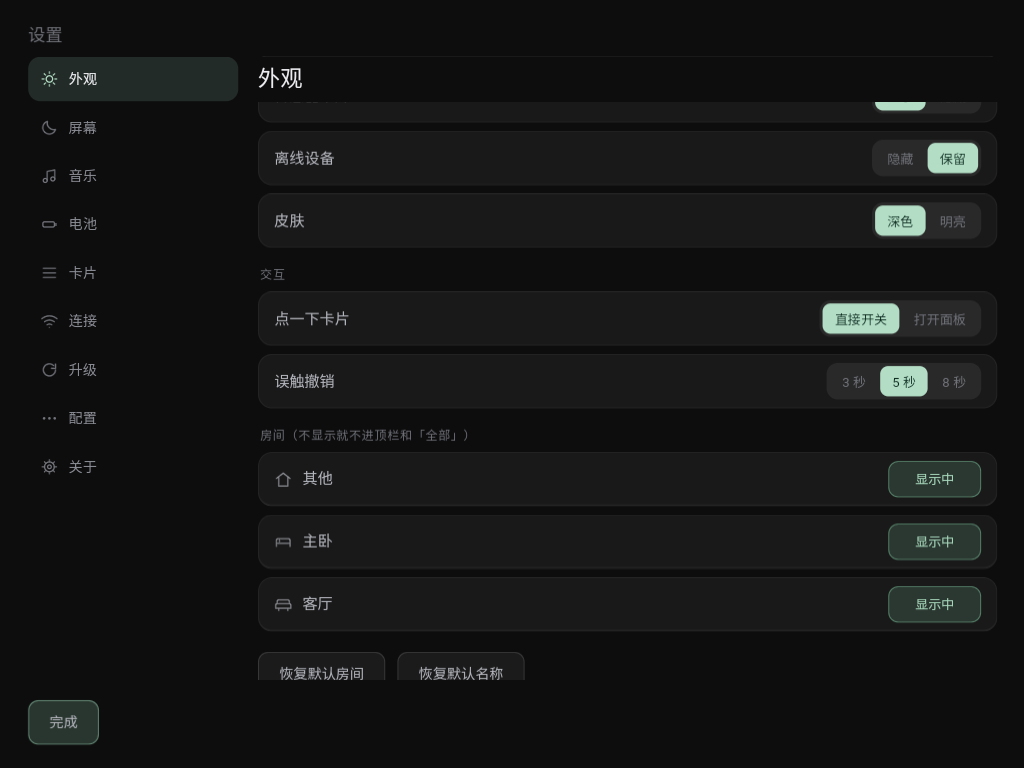
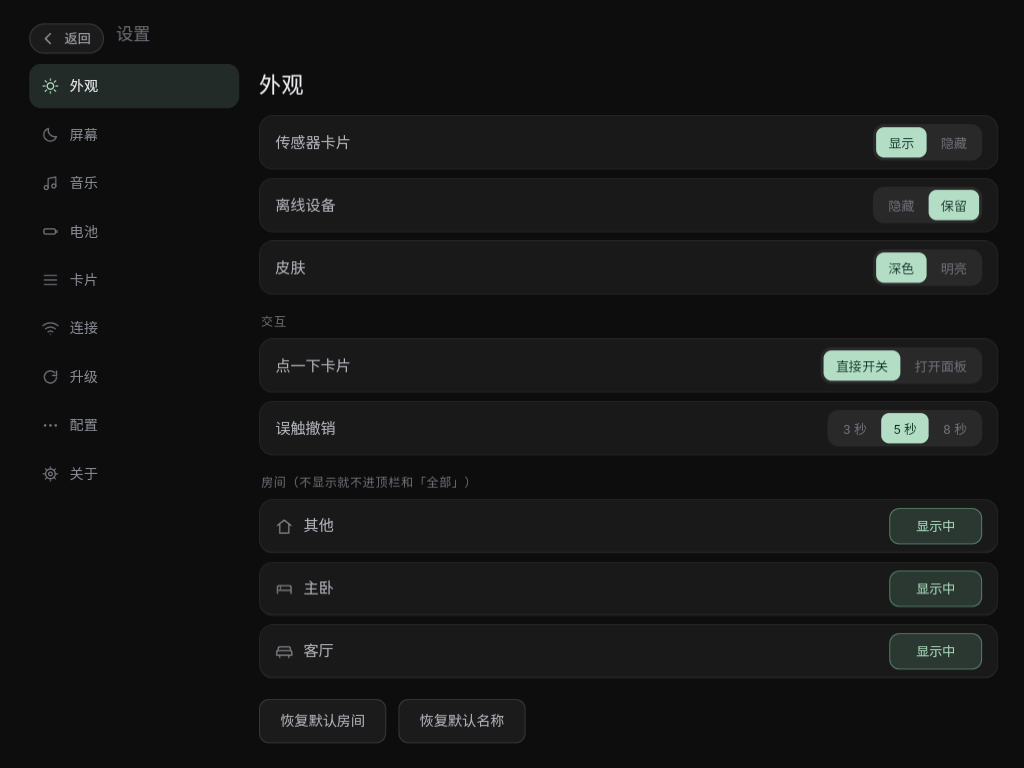
feat(settings): 去掉底部「完成」，改成左上角「‹ 返回」胶囊（与音乐页歌单返回同款）；版本 0.7.64/101

diff --git a/panel/css/app.css b/panel/css/app.css
@@ -838,9 +838,16 @@ body::before { content: none; }
 .seg + .seg { margin-left: 2px; }
 .seg.on { background: var(--accent-soft); color: var(--acc-ink); }
 .set-row, .p-row, .set-sec, .cfg-actions { contain: layout style; }
+/* 设置页头部：返回胶囊 + 小标题（和音乐页的 .m-back 同一套幽灵胶囊样式） */
+.set-head { display: flex; align-items: center; flex: 0 0 auto; margin-bottom: 8px; }
+.set-back { display: inline-flex; align-items: center; height: 30px; padding: 0 12px 0 9px; margin-right: 12px; border-radius: 15px; font-size: 13px; background: rgba(var(--surf),.06); border: 1px solid rgba(var(--surf),.14); color: var(--text-2); contain: layout style; }
+.set-back svg { width: 18px; height: 18px; margin-right: 7px; flex: 0 0 auto; }
+.set-back:active { transform: scale(.95); background: rgba(var(--surf),.13); }
+.set-head .sheet-title { margin-bottom: 0; }
 #view .sheet-title { margin-bottom: 10px; font-size: 17px; color: var(--text-4); }
 /* 设置页：左右两栏各滚各的（左栏不再跟着右栏一起走） */
 .view.panes { display: flex; flex-direction: column; overflow: hidden; }
+/* 头部与内容分离：滚动的只有 .set-shell 那一层 */
 .view.panes .sheet-title, .view.panes .cfg-actions { flex: 0 0 auto; }
 .view.panes .set-shell { flex: 1 1 auto; min-height: 0; align-items: stretch; }
 .view.panes .set-side, .view.panes .set-main { min-height: 0; overflow-y: auto; -webkit-overflow-scrolling: touch; scrollbar-width: none; -ms-overflow-style: none; }

diff --git a/panel/js/app.js b/panel/js/app.js
@@ -4389,11 +4389,11 @@ function bindDim() {
 
   function panelSheetHtml() {
     var tab = settingsTab(), meta = settingsTabMeta(tab);
-    var html = '<div class="sheet-title">设置</div>';
+    var html = '<div class="set-head"><button class="set-back" data-act="close">' + svg('back') + '<span>返回</span></button>' +
+      '<div class="sheet-title">设置</div></div>';
     html += '<div class="set-shell">' + settingsTabsHtml() +
       '<div class="set-main"><div class="set-title">' + esc(meta.t) + '</div>' +
       settingsSectionHtml(tab) + '</div></div>';
-    html += '<div class="cfg-actions"><button class="btn primary" data-act="close">完成</button></div>';
     return html;
   }
 
